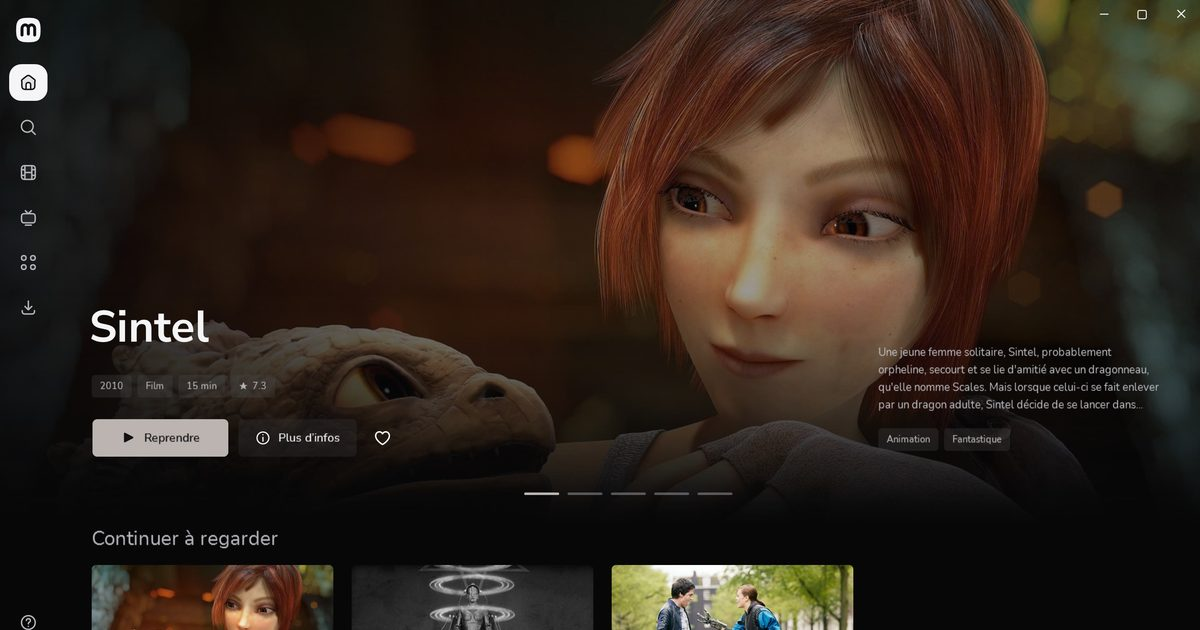
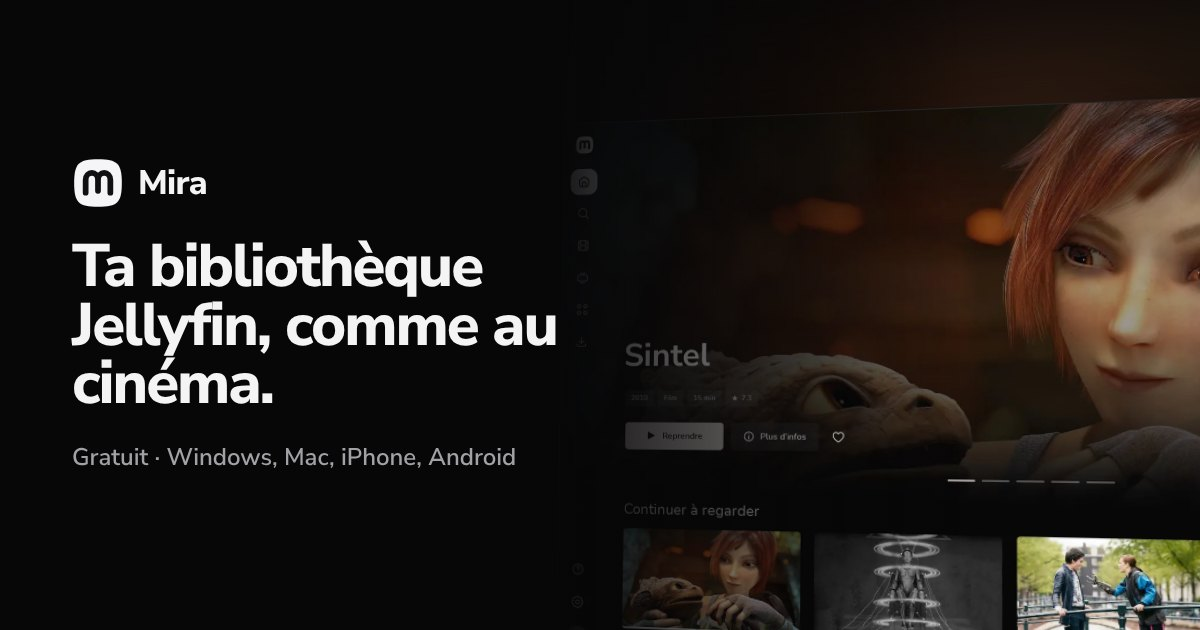
Fit the site to the visitor's device and let Watch together be tried
The hero offers the Mac's disk image on a Mac and Mira web on a phone or tablet
(Windows otherwise, as without scripts), and the download card of this device says
so. The Watch together panel is a working demo: one position for both playheads,
a pause on either side pauses both and says who did. The big screen leans toward
the pointer and catches a sweep of light as it comes on. The share cards are drawn
from the site's own fonts and screenshots (tools/site/share.mjs), one per language,
and a PNG icon backs the SVG one.

Claude-Session: https://claude.ai/code/session_01U4cFd2JH17Z3teoDjDUeh7

diff --git a/site/en/index.html b/site/en/index.html
@@ -17,12 +17,13 @@
   <meta property="og:title" content="Mira: your Jellyfin library, like at the movies">
   <meta property="og:description" content="A free Jellyfin client for Windows, Mac, iPhone and Android. No account, no ads, and nothing leaves your server.">
   <meta property="og:url" content="https://miracinema.app/en/">
-  <meta property="og:image" content="https://miracinema.app/img/share.jpg">
+  <meta property="og:image" content="https://miracinema.app/img/share-en.jpg">
   <meta property="og:image:width" content="1200">
   <meta property="og:image:height" content="630">
   <meta property="og:locale" content="en_US">
   <meta name="twitter:card" content="summary_large_image">
   <link rel="icon" href="../img/mark.svg" type="image/svg+xml">
+  <link rel="icon" href="../img/icon-192.png" type="image/png" sizes="192x192">
   <link rel="apple-touch-icon" href="../img/apple-touch-icon.png">
   <link rel="preload" href="../fonts/nunito-sans-800.woff2" as="font" type="font/woff2" crossorigin>
   <link rel="stylesheet" href="../css/site.css">
@@ -55,8 +56,12 @@
           <h1 class="display" id="titre">Your Jellyfin library, like at the movies.</h1>
           <p class="lede">Mira turns your films and series into a real cinema: big artwork, picking up at the right minute, the next episode rolling on its own. On your PC, your Mac and your phone.</p>
           <div class="actions">
-            <a class="button primary" href="https://github.com/sasou-web/Mira/releases/download/v__VERSION__/Mira-__VERSION__-win-x64-setup.exe"><svg class="icon" aria-hidden="true"><use href="../img/icons.svg#download"/></svg>Download for Windows</a>
-            <a class="button quiet" href="#telecharger">Mac, iPhone and Android</a>
+            <a class="button primary" data-for="windows" href="https://github.com/sasou-web/Mira/releases/download/v__VERSION__/Mira-__VERSION__-win-x64-setup.exe"><svg class="icon" aria-hidden="true"><use href="../img/icons.svg#download"/></svg>Download for Windows</a>
+            <a class="button quiet" data-for="windows" href="#telecharger">Mac, iPhone and Android</a>
+            <a class="button primary" data-for="mac" href="https://github.com/sasou-web/Mira/releases/download/v__VERSION__/Mira-__VERSION__-mac-arm64.dmg" hidden><svg class="icon" aria-hidden="true"><use href="../img/icons.svg#download"/></svg>Download for Mac</a>
+            <a class="button quiet" data-for="mac" href="#telecharger" hidden>Windows, iPhone and Android</a>
+            <a class="button primary" data-for="phone" href="#telephone" hidden><svg class="icon" aria-hidden="true"><use href="../img/icons.svg#phone"/></svg>Mira on your phone</a>
+            <a class="button quiet" data-for="phone" href="#telecharger" hidden>Windows and Mac</a>
           </div>
           <p class="fine"><span>Free</span><span>Open source</span><span>No account</span></p>
         </div>
@@ -153,10 +158,10 @@
           <article class="panel reveal">
             <h3>Watch together</h3>
             <p>Make a group, send the link. Your friend opens it, and you watch at the same moment. A pause on one side pauses the other.</p>
-            <div class="art sync" aria-hidden="true">
-              <div class="lane">You<div class="track"><i></i><b></b></div></div>
-              <div class="lane">Your friend<div class="track"><i></i><b></b></div></div>
-              <p class="sync-state"><svg class="icon"><use href="../img/icons.svg#users"/></svg>Together · playing in sync</p>
+            <div class="art sync" role="group" aria-label="Demo: two playbacks in sync" data-playing="Together · playing in sync" data-by-you="You paused it for both of you" data-by-friend="Your friend paused it for both of you">
+              <div class="lane"><span>You</span><div class="track"><i></i><b></b></div><button class="lane-toggle" type="button" aria-label="Pause on your side" data-pause="Pause on your side" data-play="Resume on your side" hidden><svg class="icon" aria-hidden="true"><use href="../img/icons.svg#pause"/></svg></button></div>
+              <div class="lane"><span>Your friend</span><div class="track"><i></i><b></b></div><button class="lane-toggle" type="button" aria-label="Pause on your friend’s side" data-pause="Pause on your friend’s side" data-play="Resume on your friend’s side" hidden><svg class="icon" aria-hidden="true"><use href="../img/icons.svg#pause"/></svg></button></div>
+              <p class="sync-state"><svg class="icon" aria-hidden="true"><use href="../img/icons.svg#users"/></svg><span>Together · playing in sync</span></p>
             </div>
           </article>
           <article class="panel reveal">
@@ -197,8 +202,8 @@
           <p class="lede">Mira __VERSION__, free and open source. You need a Jellyfin 10.9 server or newer, or let Mira for Windows install it.</p>
         </div>
         <div class="downloads">
-          <article class="download reveal">
-            <h3>Windows</h3>
+          <article class="download reveal" data-for="windows">
+            <h3>Windows<span class="yours" hidden>Your device</span></h3>
             <p class="needs">Windows 10 or 11, x64</p>
             <p>The installer, then Mira keeps itself up to date.</p>
             <div>
@@ -206,8 +211,8 @@
               <p class="more"><a href="https://github.com/sasou-web/Mira/releases/download/v__VERSION__/Mira-__VERSION__-win-x64-portable.exe">Portable</a><a href="https://github.com/sasou-web/Mira/releases/download/v__VERSION__/Mira-__VERSION__-win-x64.zip">Zip</a><a href="https://github.com/sasou-web/Mira/blob/main/docs/INSTALLATION.md">Guide (French)</a></p>
             </div>
           </article>
-          <article class="download reveal">
-            <h3>Mac</h3>
+          <article class="download reveal" data-for="mac">
+            <h3>Mac<span class="yours" hidden>Your device</span></h3>
             <p class="needs">Apple silicon, macOS 15 or later</p>
             <p>Drag Mira to Applications, then allow it once: it isn’t signed by Apple.</p>
             <div>
@@ -215,8 +220,8 @@
               <p class="more"><a href="https://github.com/sasou-web/Mira/blob/main/docs/INSTALLATION-MAC.md">Install guide (French)</a></p>
             </div>
           </article>
-          <article class="download reveal">
-            <h3>iPhone, iPad, Android</h3>
+          <article class="download reveal" data-for="phone">
+            <h3>iPhone, iPad, Android<span class="yours" hidden>Your device</span></h3>
             <p class="needs">Nothing to download</p>
             <p>Mira web comes from your server: in Mira for Windows, Guide, then Mira on your phone, and scan the QR code.</p>
             <div>

diff --git a/site/index.html b/site/index.html
@@ -23,6 +23,7 @@
   <meta property="og:locale" content="fr_FR">
   <meta name="twitter:card" content="summary_large_image">
   <link rel="icon" href="img/mark.svg" type="image/svg+xml">
+  <link rel="icon" href="img/icon-192.png" type="image/png" sizes="192x192">
   <link rel="apple-touch-icon" href="img/apple-touch-icon.png">
   <link rel="preload" href="fonts/nunito-sans-800.woff2" as="font" type="font/woff2" crossorigin>
   <link rel="stylesheet" href="css/site.css">
@@ -55,8 +56,12 @@
           <h1 class="display" id="titre">Ta bibliothèque Jellyfin, comme au cinéma.</h1>
           <p class="lede">Mira transforme tes films et tes séries en une vraie salle : grandes affiches, reprise à la bonne minute, épisode suivant qui s’enchaîne. Sur ton PC, ton Mac et ton téléphone.</p>
           <div class="actions">
-            <a class="button primary" href="https://github.com/sasou-web/Mira/releases/download/v__VERSION__/Mira-__VERSION__-win-x64-setup.exe"><svg class="icon" aria-hidden="true"><use href="img/icons.svg#download"/></svg>Télécharger pour Windows</a>
-            <a class="button quiet" href="#telecharger">Mac, iPhone et Android</a>
+            <a class="button primary" data-for="windows" href="https://github.com/sasou-web/Mira/releases/download/v__VERSION__/Mira-__VERSION__-win-x64-setup.exe"><svg class="icon" aria-hidden="true"><use href="img/icons.svg#download"/></svg>Télécharger pour Windows</a>
+            <a class="button quiet" data-for="windows" href="#telecharger">Mac, iPhone et Android</a>
+            <a class="button primary" data-for="mac" href="https://github.com/sasou-web/Mira/releases/download/v__VERSION__/Mira-__VERSION__-mac-arm64.dmg" hidden><svg class="icon" aria-hidden="true"><use href="img/icons.svg#download"/></svg>Télécharger pour Mac</a>
+            <a class="button quiet" data-for="mac" href="#telecharger" hidden>Windows, iPhone et Android</a>
+            <a class="button primary" data-for="phone" href="#telephone" hidden><svg class="icon" aria-hidden="true"><use href="img/icons.svg#phone"/></svg>Mira sur ton téléphone</a>
+            <a class="button quiet" data-for="phone" href="#telecharger" hidden>Windows et Mac</a>
           </div>
           <p class="fine"><span>Gratuit</span><span>Open source</span><span>Sans compte</span></p>
         </div>
@@ -153,10 +158,10 @@
           <article class="panel reveal">
             <h3>Regarder ensemble</h3>
             <p>Crée un groupe, envoie le lien. Ton ami l’ouvre, et vous regardez au même instant. Une pause chez l’un met en pause chez l’autre.</p>
-            <div class="art sync" aria-hidden="true">
-              <div class="lane">Toi<div class="track"><i></i><b></b></div></div>
-              <div class="lane">Ton ami<div class="track"><i></i><b></b></div></div>
-              <p class="sync-state"><svg class="icon"><use href="img/icons.svg#users"/></svg>Ensemble · lecture synchronisée</p>
+            <div class="art sync" role="group" aria-label="Démonstration : deux lectures synchronisées" data-playing="Ensemble · lecture synchronisée" data-by-you="Tu as mis en pause pour vous deux" data-by-friend="Ton ami a mis en pause pour vous deux">
+              <div class="lane"><span>Toi</span><div class="track"><i></i><b></b></div><button class="lane-toggle" type="button" aria-label="Mettre en pause chez toi" data-pause="Mettre en pause chez toi" data-play="Reprendre chez toi" hidden><svg class="icon" aria-hidden="true"><use href="img/icons.svg#pause"/></svg></button></div>
+              <div class="lane"><span>Ton ami</span><div class="track"><i></i><b></b></div><button class="lane-toggle" type="button" aria-label="Mettre en pause chez ton ami" data-pause="Mettre en pause chez ton ami" data-play="Reprendre chez ton ami" hidden><svg class="icon" aria-hidden="true"><use href="img/icons.svg#pause"/></svg></button></div>
+              <p class="sync-state"><svg class="icon" aria-hidden="true"><use href="img/icons.svg#users"/></svg><span>Ensemble · lecture synchronisée</span></p>
             </div>
           </article>
           <article class="panel reveal">
@@ -197,8 +202,8 @@
           <p class="lede">Mira __VERSION__, gratuite et open source. Il te faut un serveur Jellyfin 10.9 ou plus, ou laisse Mira pour Windows l’installer.</p>
         </div>
         <div class="downloads">
-          <article class="download reveal">
-            <h3>Windows</h3>
+          <article class="download reveal" data-for="windows">
+            <h3>Windows<span class="yours" hidden>Ton appareil</span></h3>
             <p class="needs">Windows 10 ou 11, x64</p>
             <p>L’installateur, et Mira se met ensuite à jour toute seule.</p>
             <div>
@@ -206,8 +211,8 @@
               <p class="more"><a href="https://github.com/sasou-web/Mira/releases/download/v__VERSION__/Mira-__VERSION__-win-x64-portable.exe">Portable</a><a href="https://github.com/sasou-web/Mira/releases/download/v__VERSION__/Mira-__VERSION__-win-x64.zip">Zip</a><a href="https://github.com/sasou-web/Mira/blob/main/docs/INSTALLATION.md">Guide</a></p>
             </div>
           </article>
-          <article class="download reveal">
-            <h3>Mac</h3>
+          <article class="download reveal" data-for="mac">
+            <h3>Mac<span class="yours" hidden>Ton appareil</span></h3>
             <p class="needs">Puce Apple, macOS 15 ou plus</p>
             <p>Glisse Mira dans Applications, puis autorise-la une fois : elle n’est pas signée par Apple.</p>
             <div>
@@ -215,8 +220,8 @@
               <p class="more"><a href="https://github.com/sasou-web/Mira/blob/main/docs/INSTALLATION-MAC.md">Guide d’installation</a></p>
             </div>
           </article>
-          <article class="download reveal">
-            <h3>iPhone, iPad, Android</h3>
+          <article class="download reveal" data-for="phone">
+            <h3>iPhone, iPad, Android<span class="yours" hidden>Ton appareil</span></h3>
             <p class="needs">Rien à télécharger</p>
             <p>Mira web arrive par ton serveur : dans Mira pour Windows, Guide, puis Mira sur ton téléphone, et scanne le QR code.</p>
             <div>

diff --git a/site/css/site.css b/site/css/site.css
@@ -36,6 +36,7 @@
 }
 
 *, *::before, *::after { box-sizing: border-box; }
+[hidden] { display: none !important; }
 html {
   background: var(--bg);
   color: var(--ink);
@@ -153,11 +154,18 @@ section { position: relative; overflow-x: clip; } /* clip, not hidden: no scroll
 .screen { --tilt: 1; position: relative; margin-top: clamp(48px, 6vw, 72px); perspective: 1600px; }
 .screen-frame {
   position: relative; border-radius: var(--r-l); overflow: hidden; border: 1px solid var(--line); background: var(--surface);
-  transform: rotateX(calc(var(--tilt) * 22deg)) scale(calc(1 - var(--tilt) * 0.06)); transform-origin: 50% 0;
+  transform: rotateX(calc(var(--tilt) * 22deg + var(--look-y, 0) * 3deg)) rotateY(calc(var(--look-x, 0) * 4deg)) scale(calc(1 - var(--tilt) * 0.06)); transform-origin: 50% 0;
+  transition: transform 400ms var(--ease);
   box-shadow: 0 40px 120px rgba(0, 0, 0, 0.7);
   animation: lights 2s var(--ease) 1.1s both;
 }
 .screen-frame img { width: 100%; aspect-ratio: 16 / 10; }
+.screen-frame::after { /* the projector's light crossing the screen as it comes on */
+  content: ''; position: absolute; inset: 0; pointer-events: none;
+  background: linear-gradient(105deg, transparent 35%, rgba(255, 255, 255, 0.16) 50%, transparent 65%);
+  transform: translateX(-100%); animation: sweep 1.6s var(--ease) 1.9s both;
+}
+@keyframes sweep { to { transform: translateX(100%); } }
 .screen-glow {
   position: absolute; inset: 2% -3% -6%; z-index: -1; filter: blur(80px) saturate(150%); opacity: 0.7;
   transform: scale(1.05); animation: glow 2.6s var(--ease) 1.3s both;
@@ -260,7 +268,7 @@ section { position: relative; overflow-x: clip; } /* clip, not hidden: no scroll
 
 /* Two timelines that move as one: whoever pauses, pauses for both. */
 .sync { display: grid; gap: 18px; }
-.lane { display: grid; grid-template-columns: 92px 1fr; gap: 14px; align-items: center; color: var(--muted); font-size: 14px; font-weight: 600; }
+.lane { display: grid; grid-template-columns: 92px 1fr 36px; gap: 14px; align-items: center; color: var(--muted); font-size: 14px; font-weight: 600; }
 .track { position: relative; height: 4px; border-radius: 2px; background: var(--raised-2); }
 .track i { position: absolute; inset: 0; border-radius: 2px; background: var(--accent); transform-origin: left; animation: watch 9s linear infinite; }
 .track b {
@@ -269,6 +277,17 @@ section { position: relative; overflow-x: clip; } /* clip, not hidden: no scroll
 }
 @keyframes watch { 0% { transform: scaleX(0.08); } 40% { transform: scaleX(0.46); } 55% { transform: scaleX(0.46); } 100% { transform: scaleX(0.92); } }
 @keyframes head { 0% { left: 8%; } 40% { left: 46%; } 55% { left: 46%; } 100% { left: 92%; } }
+.lane-toggle {
+  display: grid; place-items: center; width: 36px; height: 36px; border: 0; border-radius: 50%; padding: 0;
+  background: var(--raised-2); color: var(--ink); cursor: pointer; transition: background 160ms, transform 160ms var(--ease);
+}
+.lane-toggle:hover { background: #303034; }
+.lane-toggle:active { transform: scale(0.92); }
+.lane-toggle .icon { width: 16px; height: 16px; }
+/* Driven by site.js: the playheads follow one position, whoever presses pause. */
+.sync.live .track i { animation: none; transform: scaleX(var(--pos, 0.08)); }
+.sync.live .track b { animation: none; left: calc(var(--pos, 0.08) * 100%); }
+.sync.paused .track b { box-shadow: none; }
 .sync-state { display: flex; align-items: center; gap: 10px; color: var(--faint); font-size: 14px; }
 .sync-state .icon { color: var(--ink); }
 
@@ -303,7 +322,12 @@ section { position: relative; overflow-x: clip; } /* clip, not hidden: no scroll
   background: var(--surface); border: 1px solid var(--line); transition: border-color 300ms var(--ease), transform 300ms var(--ease);
 }
 .download:hover { border-color: #3a3a40; transform: translateY(-4px); }
-.download h3 { font-size: 26px; font-weight: 800; letter-spacing: -0.02em; }
+.download h3 { display: flex; align-items: center; flex-wrap: wrap; gap: 8px 12px; font-size: 26px; font-weight: 800; letter-spacing: -0.02em; }
+.yours {
+  padding: 4px 10px; border-radius: var(--r-full); background: var(--accent); color: var(--on-accent);
+  font-size: 12px; font-weight: 800; letter-spacing: 0.06em; text-transform: uppercase;
+}
+.download.mine { border-color: #48484e; }
 .download p { color: var(--muted); font-size: 16px; }
 .download .needs { color: var(--faint); font-size: 14px; font-weight: 600; }
 .download .button { width: 100%; margin-top: 12px; }

diff --git a/site/js/site.js b/site/js/site.js
@@ -68,3 +68,82 @@ if (checklist) {
     lines.forEach((line, i) => setTimeout(() => line.classList.add('done'), reduced.matches ? 0 : 500 + i * 650));
   }, { threshold: 0.5 }).observe(checklist);
 }
+
+// The big screen leans a little toward the pointer, on a computer with a mouse.
+if (screen && matchMedia('(hover: hover) and (pointer: fine)').matches) {
+  const hero = document.querySelector('.hero');
+  hero.addEventListener('pointermove', event => {
+    if (reduced.matches) return;
+    screen.style.setProperty('--look-x', ((event.clientX / innerWidth) * 2 - 1).toFixed(3));
+    screen.style.setProperty('--look-y', ((event.clientY / innerHeight) * 2 - 1).toFixed(3));
+  });
+  hero.addEventListener('pointerleave', () => {
+    screen.style.removeProperty('--look-x');
+    screen.style.removeProperty('--look-y');
+  });
+}
+
+// The way in that fits this device: the Mac's disk image on a Mac, Mira web on a phone; Windows otherwise, as without
+// scripts. An iPad says it is a Mac, but it has a touch screen.
+const touchMac = /Macintosh/.test(navigator.userAgent) && navigator.maxTouchPoints > 1;
+const device = /iPhone|iPad|iPod|Android/.test(navigator.userAgent) || touchMac ? 'phone'
+  : /Mac OS X|Macintosh/.test(navigator.userAgent) ? 'mac' : 'windows';
+if (device !== 'windows') {
+  document.querySelectorAll('.actions [data-for]').forEach(link => { link.hidden = link.dataset.for !== device; });
+}
+if (/Windows|Mac OS X|Macintosh|iPhone|iPad|iPod|Android/.test(navigator.userAgent)) {
+  const card = document.querySelector(`.download[data-for="${device}"]`);
+  card?.classList.add('mine');
+  card?.querySelector('.yours')?.removeAttribute('hidden');
+}
+
+// Watch together, for real: one position for both lanes, and a pause on either side pauses both, as in Mira. Left to
+// itself, the friend pauses once in a while.
+const sync = document.querySelector('.sync');
+if (sync) {
+  const toggles = [...sync.querySelectorAll('.lane-toggle')];
+  const state = sync.querySelector('.sync-state span');
+  const LENGTH = 18000;
+  let position = 0.08, playing = !reduced.matches, touched = false, last = 0, resumeAt = 0;
+  sync.classList.add('live');
+  const render = () => {
+    sync.style.setProperty('--pos', position.toFixed(4));
+    sync.classList.toggle('paused', !playing);
+    for (const toggle of toggles) {
+      toggle.setAttribute('aria-label', playing ? toggle.dataset.pause : toggle.dataset.play);
+      toggle.querySelector('use').setAttribute('href', toggle.querySelector('use').getAttribute('href').replace(/#\w+$/, playing ? '#pause' : '#play'));
+    }
+  };
+  const press = (who, user) => {
+    // Read aloud only what a person did: the friend's pauses, left to themselves, would come back every loop.
+    if (user && !touched) { touched = true; state.setAttribute('aria-live', 'polite'); }
+    playing = !playing;
+    state.textContent = playing ? sync.dataset.playing : who === 0 ? sync.dataset.byYou : sync.dataset.byFriend;
+    render();
+    if (playing) requestAnimationFrame(tick);
+  };
+  function tick(now) {
+    if (!playing) return;
+    if (last && now - last < 200) {
+      const before = position;
+      position += (now - last) / LENGTH;
+      if (position >= 0.94) position = 0.08;
+      // Unless someone has pressed a button, the friend pauses near the middle, then plays again.
+      if (!touched && before < 0.46 && position >= 0.46) {
+        press(1, false);
+        resumeAt = setTimeout(() => { if (!touched && !playing) press(1, false); }, 2400);
+      }
+      render();
+    }
+    last = now;
+    if (playing) requestAnimationFrame(tick);
+    else last = 0;
+  }
+  toggles.forEach((toggle, who) => {
+    toggle.hidden = false;
+    toggle.addEventListener('click', () => { clearTimeout(resumeAt); last = 0; press(who, true); });
+  });
+  if (!playing) state.textContent = sync.dataset.playing;
+  render();
+  requestAnimationFrame(tick);
+}

diff --git a/tools/site/images.py b/tools/site/images.py
@@ -1,4 +1,4 @@
-"""Images of the showcase site (site/img) from the README's screenshots: WebP at three widths, and the share card.
+"""Images of the showcase site (site/img) from the README's screenshots: WebP at three widths (the share cards: tools/site/share.mjs).
 
 Run from the repository's root after gallery.yml has refreshed docs/screenshots/readme: python3 tools/site/images.py
 """
@@ -15,8 +15,3 @@ for path in sorted(SOURCE.glob("*.jpg")):
     for width in WIDTHS[path.stem.split("-")[0]]:
         copy = image.resize((width, round(image.height * width / image.width)), Image.LANCZOS)
         copy.save(OUT / f"{path.stem}-{width}.webp", "WEBP", quality=80, method=6)
-
-# The card shown where the link is shared: the home screen, cropped to 1200 × 630.
-home = Image.open(SOURCE / "windows-home.jpg").convert("RGB")
-home = home.resize((1200, 750), Image.LANCZOS).crop((0, 0, 1200, 630))
-home.save(OUT / "share.jpg", "JPEG", quality=82, optimize=True, progressive=True)
